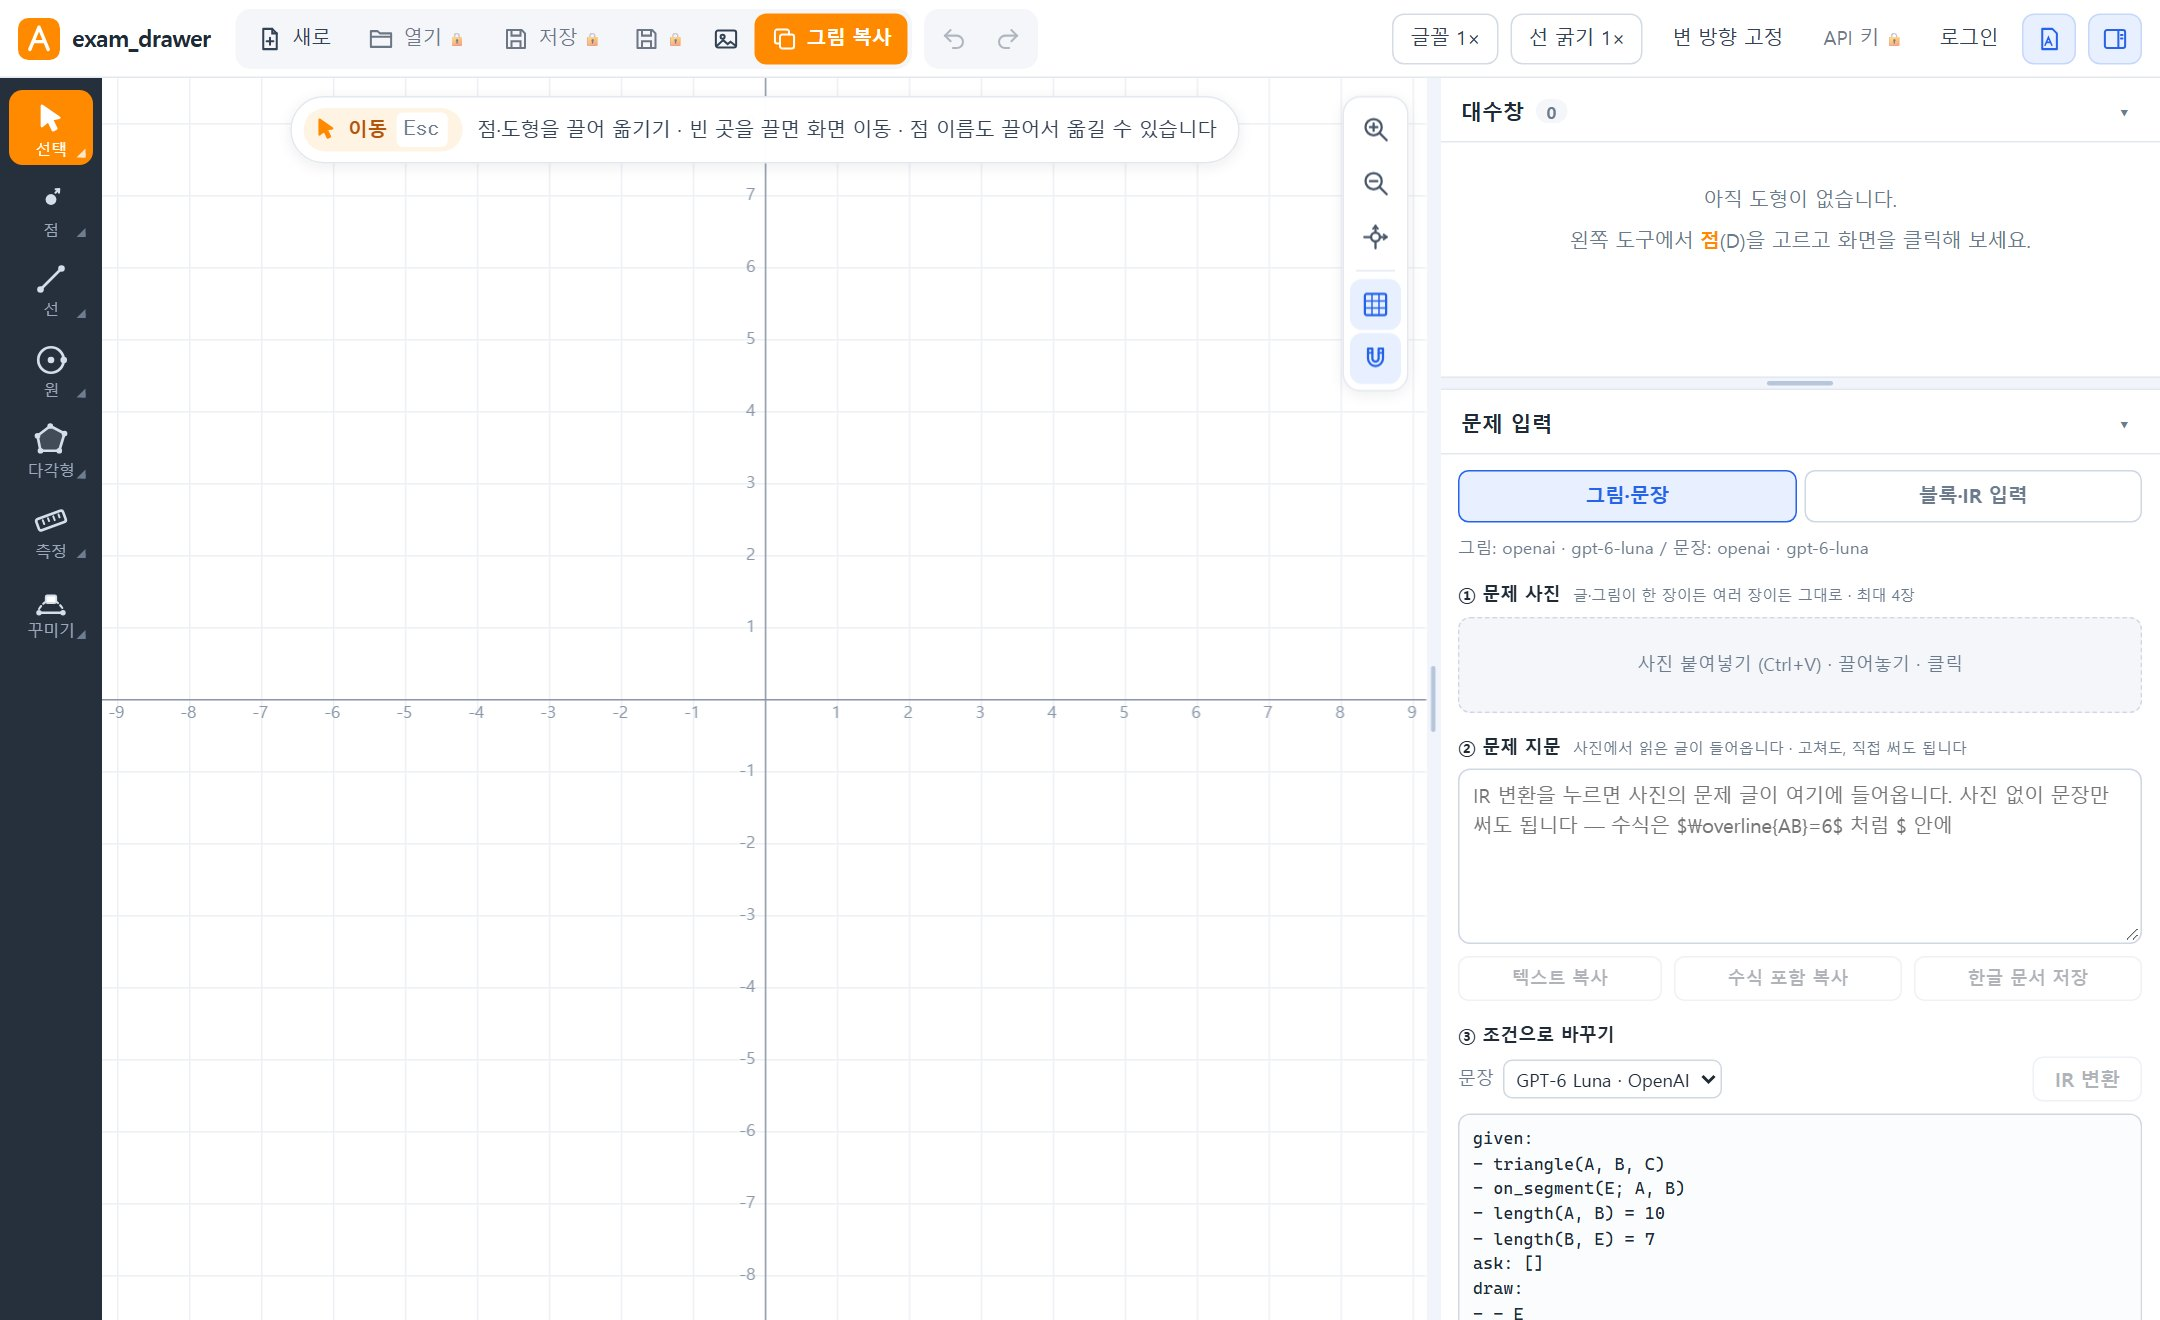
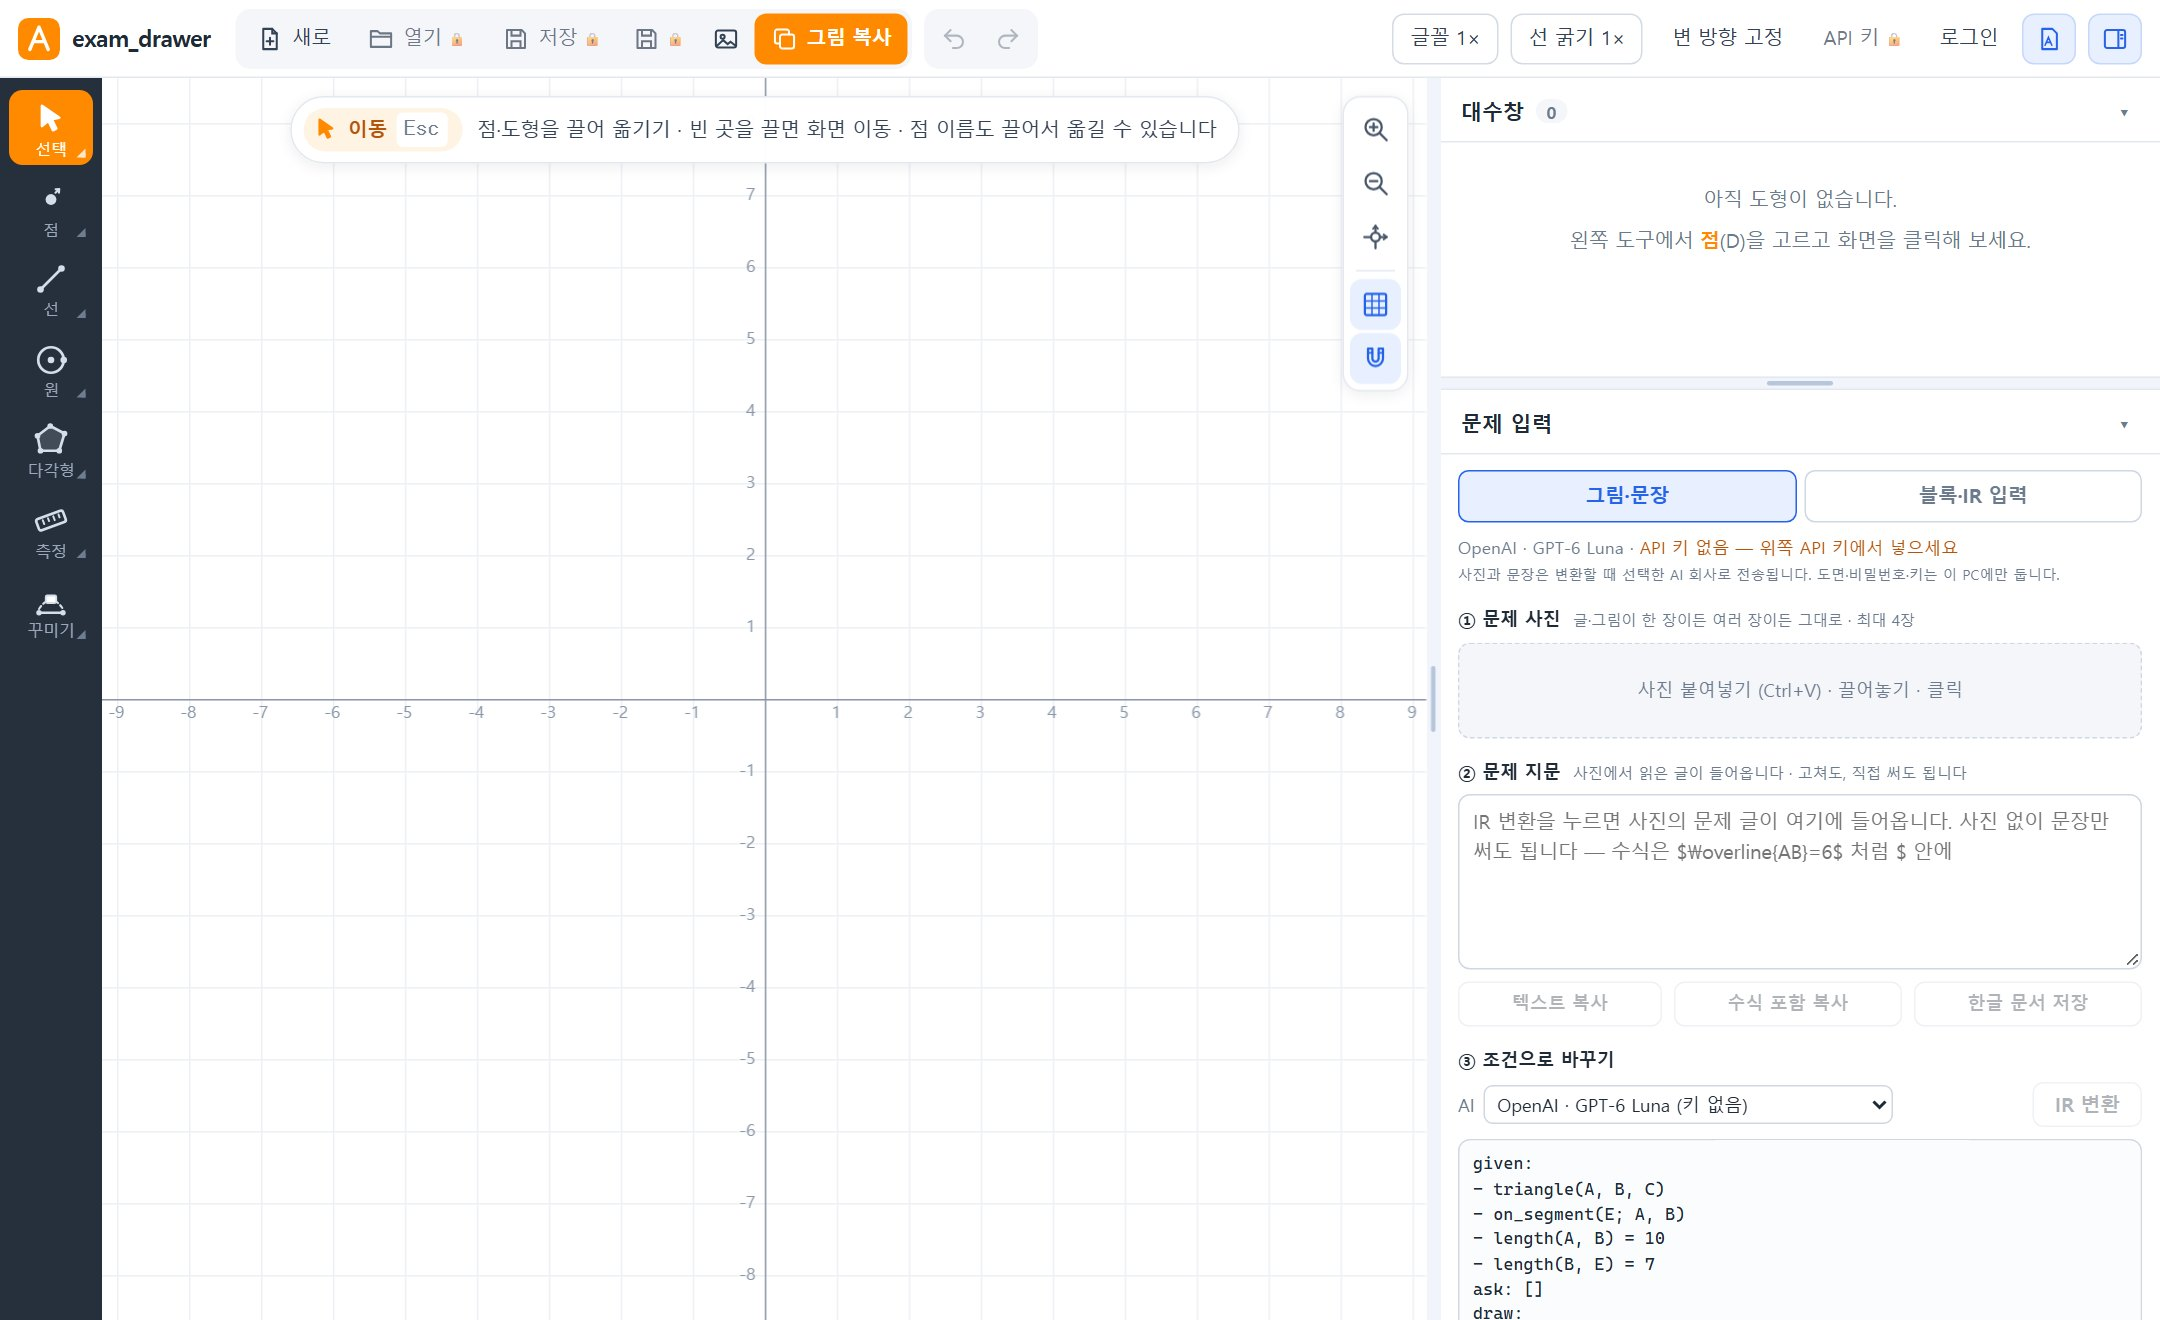
Docs: choose OpenAI, Claude, Google or Upstage; say where photos are sent; 30-day records

diff --git a/index.html b/index.html
@@ -188,10 +188,10 @@
       <p class="sub">작도판은 기본 브라우저에서 열립니다. 별도 브라우저나 Python 설치는 필요 없습니다.</p>
       <div class="cards">
         <div class="card"><h3>직접 조건 입력</h3><p>블록이나 한 줄짜리 조건으로 입력합니다. API 키나 인터넷 없이 쓸 수 있습니다.</p></div>
-        <div class="card"><h3>그림·문장 변환 (선택)</h3><p>문제 사진이나 문장을 조건으로 바꿉니다. 본인의 OpenAI·Upstage API 키가 필요하고 사용료가 듭니다.</p></div>
+        <div class="card"><h3>그림·문장 변환 (선택)</h3><p>문제 사진이나 문장을 조건으로 바꾸고, 사진의 문제 글을 수식째 한글로 옮깁니다. OpenAI·Claude·Google·Upstage 가운데 쓰는 회사의 본인 API 키가 필요하고 사용료가 듭니다.</p></div>
         <div class="card"><h3>시험지용 마무리</h3><p>글꼴·선 굵기 조절, 변 방향 고정, PNG 내보내기, 그림 복사, 문장 편집, 도면 저장·열기.</p></div>
         <div class="card"><h3>한글 수식 복사</h3><p>문장과 수식을 한컴 한글의 수식 개체로 복사합니다. 한글이 설치된 PC에서 동작합니다.</p></div>
-        <div class="card"><h3>내 PC에만 저장</h3><p>도면과 설정은 내 컴퓨터에만 남습니다. API 키는 비밀번호로 암호화해 보관합니다.</p></div>
+        <div class="card"><h3>내 PC에만 저장</h3><p>도면·설정·API 키는 내 컴퓨터에만 남고, 키는 비밀번호로 암호화합니다. AI 변환을 쓸 때만 그 사진·문장이 고른 AI 회사로 전송됩니다.</p></div>
         <div class="card"><h3>버튼 한 번으로 업데이트</h3><p>실행 창의 ‘업데이트 하기’가 새 버전을 받아 확인한 뒤 교체하고 다시 실행합니다.</p></div>
       </div>
     </section>
@@ -220,6 +220,8 @@
           <ul>
             <li>저장한 도면은 비밀번호로 암호화</li>
             <li>API 키는 exe에 들어 있지 않고, 입력한 키도 암호화해 보관</li>
+            <li><b>AI 변환(사진·문장 → 조건)을 쓰면 그 사진과 문장이 고른 AI 회사(OpenAI·Anthropic·Google·Upstage)로 전송됩니다.</b> 각 회사의 데이터 처리 방침이 적용됩니다. 직접 조건 입력과 작도는 전송 없이 이 PC에서만 동작합니다.</li>
+            <li>AI 변환에 넣은 사진·문장 기록은 30일이 지나면 자동으로 지웁니다</li>
             <li>작도판은 이 PC 안에서만 열리는 주소(127.0.0.1)로 동작하고, 다른 웹사이트는 접근할 수 없음</li>
           </ul>
         </div>
@@ -235,7 +237,7 @@
       <h2>자주 묻는 질문</h2>
       <p class="sub">기능별 자세한 사용법은 <a href="manual/">사용 설명서</a>에 화면과 함께 있습니다.</p>
       <details><summary>인터넷이 꼭 필요한가요?</summary><p>직접 조건을 입력해 작도하는 기능은 인터넷 없이 됩니다. 그림·문장 AI 변환과 업데이트 확인에만 인터넷이 필요합니다.</p></details>
-      <details><summary>AI 변환은 어떻게 켜나요?</summary><p>작도판의 ‘로그인’에서 비밀번호를 정한 뒤 ‘API 키’에 본인의 키를 입력합니다. 비밀번호는 8자 이상이며 저장되지 않으니 잊지 않도록 해 주세요. 잊으면 암호화된 도면과 키를 열 수 없습니다.</p></details>
+      <details><summary>AI 변환은 어떻게 켜나요?</summary><p>작도판의 ‘로그인’에서 비밀번호를 정한 뒤 ‘API 키’에 쓰려는 회사(OpenAI·Claude·Google·Upstage)의 본인 키를 입력하고, 문제 입력의 ‘AI’ 목록에서 모델을 고릅니다. 비밀번호는 8자 이상이며 저장되지 않으니 잊지 않도록 해 주세요. 잊으면 암호화된 도면과 키를 열 수 없습니다.</p></details>
       <details><summary>작도가 끝나지 않으면?</summary><p>한 도형당 30초가 지나면 자동으로 멈춥니다. 조건이 너무 많거나 서로 맞지 않는 경우가 많으니, 조건을 확인하거나 줄여서 다시 시도하세요.</p></details>
       <details><summary>문제가 생기면 어디를 보나요?</summary><p>실행 창의 ‘저장 폴더’를 누르면 열리는 폴더의 <code>logs</code>에 실행 기록이 있습니다. 8765 포트가 사용 중이면 다른 포트를 자동으로 고릅니다.</p></details>
       <details><summary>이전 버전을 쓰고 있어요 (1.0.13 이하)</summary><p>이전 버전은 업데이트 위치가 달라서 버튼으로 새 버전을 받지 못합니다. 이 페이지에서 한 번만 새로 받아 기존 파일을 바꿔 주세요. 그 뒤로는 ‘업데이트 하기’로 받을 수 있습니다.</p></details>

diff --git a/manual/index.html b/manual/index.html
@@ -370,13 +370,16 @@ ask(angle(B, A, C))     # ∠BAC를 구하기</code></pre>
 
     <section id="keys">
       <h2>12. API 키 넣기 <small>그림·문장 AI 변환을 쓸 때만</small></h2>
-      <figure class="mid"><a href="img/14-keys.png"><img src="img/14-keys.png" alt="API 키 창: OpenAI와 Upstage 키 입력 칸" loading="lazy"></a></figure>
+      <figure class="mid"><a href="img/14-keys.png"><img src="img/14-keys.png" alt="API 키 창: 회사별 키 입력 칸" loading="lazy"></a></figure>
       <ol class="steps">
-        <li>OpenAI(그림·문장) 또는 Upstage(문장, solar-pro4) 웹사이트에서 본인 계정의 API 키를 만듭니다. 사용량만큼 요금이 나갑니다.</li>
+        <li>쓰려는 회사의 웹사이트에서 본인 계정의 API 키를 만듭니다: <b>OpenAI</b>(GPT-6 Luna), <b>Anthropic</b>(Claude Opus·Sonnet·Haiku), <b>Google</b>(Gemini), <b>Upstage</b>(solar-pro4, 문장만). 한 곳만 있어도 됩니다. 사용량만큼 요금이 나갑니다.</li>
         <li>작도판에서 <a href="#save">로그인</a>한 뒤 도구 막대의 <span class="ui">API 키</span>를 누릅니다.</li>
         <li>해당 칸에 키를 붙여넣고 <span class="ui">저장</span>을 누릅니다. 저장된 키는 앞뒤 몇 글자만 보입니다. 지우려면 칸을 비우고 저장합니다.</li>
       </ol>
-      <p class="muted">키는 비밀번호로 암호화해 이 컴퓨터에만 보관하며 프로그램을 다시 켜면 로그인해야 다시 쓰입니다. Windows 환경변수 <code>OPENAI_API</code>(또는 <code>OPENAI_API_KEY</code>)·<code>UPSTAGE_API</code>로 넣어도 됩니다.</p>
+      <p class="muted">키는 비밀번호로 암호화해 이 컴퓨터에만 보관하며 프로그램을 다시 켜면 로그인해야 다시 쓰입니다. Windows 환경변수로 넣어도 됩니다: <code>OPENAI_API</code>(또는 <code>OPENAI_API_KEY</code>), <code>ANTHROPIC_API</code>(또는 <code>ANTHROPIC_API_KEY</code>), <code>GOOGLE_API</code>(또는 <code>GEMINI_API_KEY</code>), <code>UPSTAGE_API</code>.</p>
+      <h3>AI 모델 고르기</h3>
+      <p>그림·문장 탭 ③의 <span class="ui">AI</span> 목록에서 고릅니다. 기본은 OpenAI GPT-6 Luna이고, Claude(Opus 5.5 · Sonnet 5.5 · Haiku 5.5), Google(Gemini 3.8 Flash · 3.1 Pro 미리보기), Upstage(solar-pro4, 문장만 — 사진은 GPT-6 Luna가 읽음)가 있습니다. 키가 없는 회사에는 <b>(키 없음)</b>이 붙습니다. 목록에 없는 모델은 <span class="ui">목록에 없는 모델…</span>을 고르고 <code>회사:모델 이름</code>(예: <code>anthropic:claude-opus-5</code>, <code>google:gemini-3.6-flash</code>)으로 적습니다.</p>
+      <p class="muted">사진과 문장은 변환할 때 고른 회사로 전송됩니다. 큰 휴대폰 사진은 보내기 전에 긴 변 2000px로 자동으로 줄입니다.</p>
     </section>
 
     <section id="relation">
@@ -405,7 +408,7 @@ ask(angle(B, A, C))     # ∠BAC를 구하기</code></pre>
         <tr><th>폴더</th><th>들어 있는 것</th></tr>
         <tr><td><code>%LOCALAPPDATA%\GeometryDrawer\diagrams_sources</code></td><td>저장한 도면 (암호화)</td></tr>
         <tr><td><code>…\GeometryDrawer\data\secure</code></td><td>비밀번호 확인 정보와 암호화된 API 키</td></tr>
-        <tr><td><code>…\GeometryDrawer\data\ingest_runs</code></td><td>입력 기록</td></tr>
+        <tr><td><code>…\GeometryDrawer\data\ingest_runs</code></td><td>AI 변환에 넣은 사진·문장 기록 (30일이 지나면 자동으로 지움)</td></tr>
         <tr><td><code>…\GeometryDrawer\logs</code></td><td>실행 기록 (문제가 생겼을 때 확인)</td></tr>
       </table></div>
       <p class="muted">실행 창의 <span class="ui">저장 폴더</span>로 바로 열 수 있습니다. exe를 옮기거나 지워도 이 폴더는 남습니다. 다른 컴퓨터로 옮길 때는 이 폴더를 통째로 복사하면 됩니다(같은 비밀번호로 엽니다).</p>
